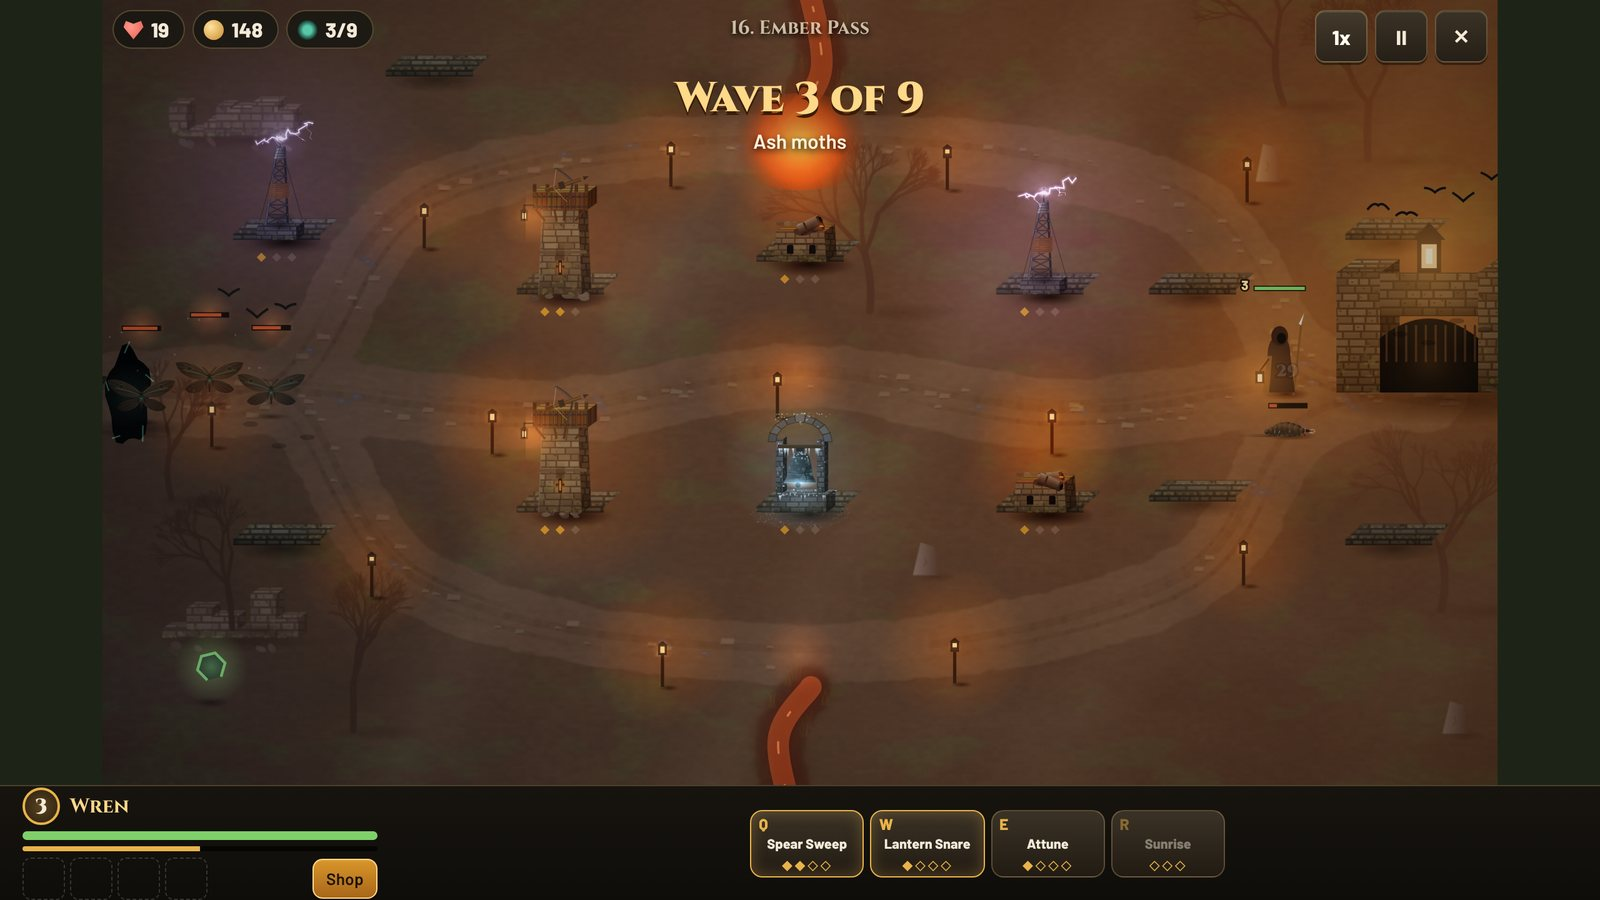
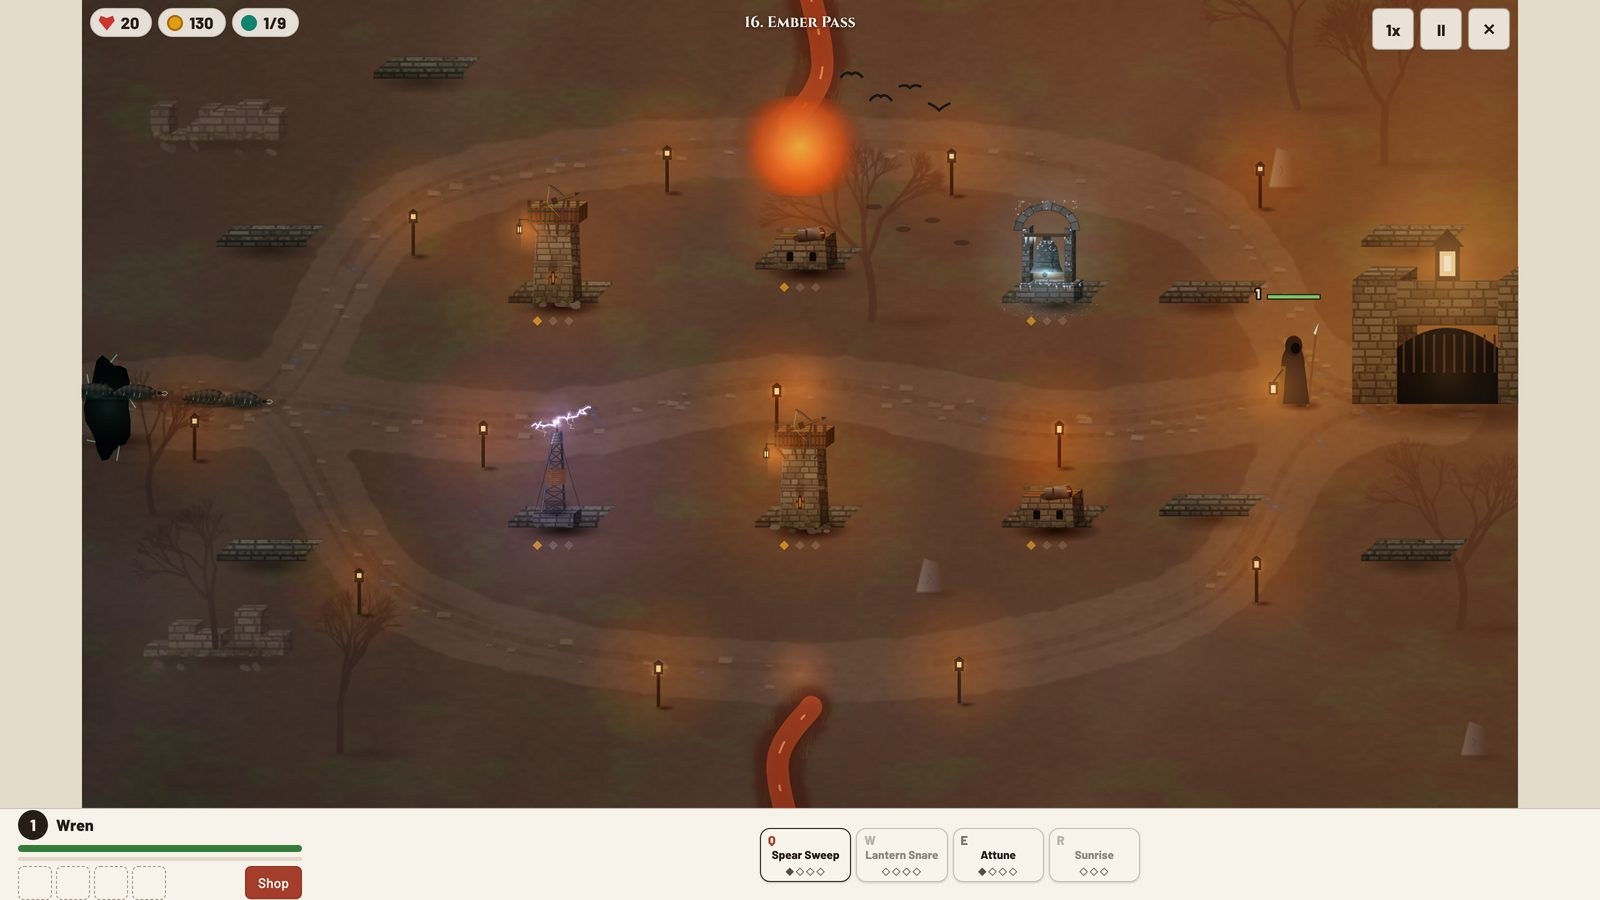
Carry the morning look through every screen
Leave-battle and erase-progress now ask in cards inside the game instead
of browser dialogs, which look foreign and do nothing in some app views.
The page and app background colour match the new paper tone, so there is
no dark flash on launch. README battle shots are retaken with the new HUD,
and docs/DESIGN.md gains the look rules for future screens.

diff --git a/src/ui/battle.ts b/src/ui/battle.ts
@@ -331,6 +331,7 @@ export class BattleScreen {
   private key(e: KeyboardEvent) {
     if (e.target instanceof HTMLInputElement) return;
     const k = e.key.toLowerCase();
+    if (this.exitVeil) { if (k === 'escape') this.closeExit(); return; }
     if (k === 'q' || k === 'w' || k === 'e' || k === 'r') { this.skillPress(k); e.preventDefault(); }
     else if (k === ' ') { this.battle.callWave(); e.preventDefault(); }
     else if (k === 'f') this.cycleSpeed();
@@ -505,8 +506,31 @@ export class BattleScreen {
   /** Leave, asking first if a fight is under way. */
   requestExit() { this.confirmExit(); }
 
+  private exitVeil: HTMLElement | null = null;
+
+  /** An in-game card rather than a browser dialog, so it matches the game and works inside the native shells. */
   private confirmExit() {
-    if (this.ended || this.battle.status === 'prep' || window.confirm('Leave this battle? Progress in it is lost.')) this.host.onExit();
+    if (this.ended || this.battle.status === 'prep') { this.host.onExit(); return; }
+    if (this.exitVeil) { this.closeExit(); return; }
+    const wasPaused = this.battle.paused;
+    if (!wasPaused) this.togglePause();
+    const stay = h('button', { class: 'btn primary', onclick: () => this.closeExit() }, 'Keep fighting');
+    const card = h('div', { class: 'result', role: 'dialog', 'aria-label': 'Leave this battle?' },
+      h('h2', { text: 'Leave this battle?' }),
+      h('p', { text: 'You lose your progress in this stage. Stars you already hold stay.' }),
+      h('div', { class: 'act-row' }, stay, h('button', { class: 'btn', onclick: () => this.host.onExit() }, 'Leave')));
+    this.exitVeil = h('div', { class: 'veil', onclick: (e: Event) => { if (e.target === this.exitVeil) this.closeExit(); } }, card);
+    this.exitVeil.dataset.resume = wasPaused ? '' : '1';
+    this.el.append(this.exitVeil);
+    stay.focus();
+  }
+
+  private closeExit() {
+    if (!this.exitVeil) return;
+    const resume = this.exitVeil.dataset.resume === '1';
+    this.exitVeil.remove();
+    this.exitVeil = null;
+    if (resume && this.battle.paused) this.togglePause();
   }
 
   private end(won: boolean, stars: number) {

diff --git a/src/ui/app.ts b/src/ui/app.ts
@@ -146,6 +146,20 @@ export class App {
     const toggle = (label: string, key: keyof typeof st, note: string) => h('label', { class: 'toggle' },
       h('input', { type: 'checkbox', checked: st[key], onchange: (e: Event) => { st[key] = (e.target as HTMLInputElement).checked; this.applySettings(); } }),
       h('span', {}, h('b', { text: label }), h('small', { text: note })));
+    // Two steps on the page itself: browser dialogs look foreign here and do nothing in some app views.
+    const erase = h('div', { class: 'erase' });
+    const askErase = () => {
+      clear(erase);
+      erase.append(h('button', { class: 'btn danger', onclick: () => {
+        clear(erase);
+        erase.append(
+          h('p', { class: 'erase-q', text: 'Erase all stars and tree picks? This cannot be undone.' }),
+          h('div', { class: 'act-row' },
+            h('button', { class: 'btn danger solid', onclick: () => { this.save = freshSave(); this.persist(); this.title(); } }, 'Erase'),
+            h('button', { class: 'btn', onclick: askErase }, 'Cancel')));
+      } }, 'Erase progress'));
+    };
+    askErase();
     this.mount(h('section', { class: 'screen settings' },
       h('header', { class: 'bar-top' }, h('button', { class: 'btn', onclick: () => this.title() }, 'Back'), h('h2', { text: 'Settings' }), h('span')),
       h('div', { class: 'panel' },
@@ -159,7 +173,7 @@ export class App {
           h('li', { text: 'Wren gains levels inside each stage. Spend points on Q, W, E and R. Landing the killing blow pays 50% more gold.' }),
           h('li', { text: 'Walk her to the gate to shop. Grab runes when they glow on the map.' }),
           h('li', { text: 'Keys: Q W E R skills, 1 to 6 build, Space next wave, F speed, P pause, B shop. Right click moves Wren.' })),
-        h('button', { class: 'btn danger', onclick: () => { if (window.confirm('Erase all stars and tree picks?')) { this.save = freshSave(); this.persist(); this.title(); } } }, 'Erase progress'))));
+        erase)));
   }
 
   private applySettings() {

diff --git a/src/styles.css b/src/styles.css
@@ -65,7 +65,10 @@ h1, h2, h3 { font-family: var(--display); font-weight: 700; margin: 0; letter-sp
 .btn.primary:hover { background: var(--accent-hi); }
 .btn.big { padding: 13px 26px; font-size: 1.06rem; min-width: 200px; }
 .btn.icon { width: 42px; height: 42px; padding: 0; font-weight: 800; }
-.btn.danger { border-color: var(--life); color: var(--life); margin-top: 18px; }
+.btn.danger { border-color: var(--life); color: var(--life); }
+.btn.danger.solid { background: var(--life); color: var(--accent-ink); }
+.erase { margin-top: 18px; display: grid; gap: 10px; justify-items: start; }
+.erase-q { margin: 0; font-weight: 600; color: var(--ink); }
 .btn.poor, .btn:disabled { opacity: 0.5; cursor: default; }
 .btn:disabled:hover { background: var(--paper); }
 
@@ -267,10 +270,10 @@ h1, h2, h3 { font-family: var(--display); font-weight: 700; margin: 0; letter-sp
 .item.owned { outline: 1px solid var(--ink); }
 
 .veil { position: absolute; inset: 0; z-index: 10; display: grid; place-items: center; background: var(--scrim); backdrop-filter: blur(3px); }
-.result { background: var(--paper); color: var(--ink); border: 1px solid var(--rule); border-radius: 18px; padding: 24px 28px; text-align: center; max-width: 460px; display: grid; gap: 10px; box-shadow: 0 20px 50px oklch(24% 0.02 60 / 0.3); }
+.result { background: var(--paper); color: var(--ink); border: 1px solid var(--rule); border-radius: 18px; padding: 24px 28px; text-align: center; width: min(440px, calc(100vw - 32px)); display: grid; gap: 10px; box-shadow: 0 20px 50px oklch(24% 0.02 60 / 0.3); }
 .result h2 { font-size: 2rem; color: var(--ink); }
 .result.lost h2 { color: var(--life); }
-.result p { margin: 0; color: var(--ink-dim); }
+.result p { margin: 0; color: var(--ink-dim); text-wrap: pretty; }
 .result .embers { color: var(--accent); font-weight: 800; }
 .result .act-row { justify-content: center; }
 

diff --git a/index.html b/index.html
@@ -3,7 +3,7 @@
 <head>
   <meta charset="utf-8" />
   <meta name="viewport" content="width=device-width, initial-scale=1, viewport-fit=cover, user-scalable=no" />
-  <meta name="theme-color" content="#1d2417" />
+  <meta name="theme-color" content="#f6f2ea" />
   <meta name="description" content="TowerRiot: a tower defence game with a hero who levels up in every fight. Plays offline." />
   <meta name="apple-mobile-web-app-capable" content="yes" />
   <meta name="mobile-web-app-capable" content="yes" />

diff --git a/capacitor.config.ts b/capacitor.config.ts
@@ -5,7 +5,7 @@ const config: CapacitorConfig = {
   appId: 'com.njarrar.towerriot',
   appName: 'TowerRiot',
   webDir: 'dist',
-  backgroundColor: '#1d2417',
+  backgroundColor: '#f6f2ea',
   ios: { contentInset: 'never' },
   android: { allowMixedContent: false },
 };

diff --git a/docs/DESIGN.md b/docs/DESIGN.md
@@ -44,3 +44,18 @@ TowerRiot is a classic tower defence game with an early Dota touch. You hold the
 ## Twenty stages
 
 Each region adds a map rule. The fifth stage of each region is a boss. See `src/game/data/stages.ts` for the maps.
+
+## Look and feel
+
+The game is set in the morning. Keep every new screen to these rules.
+
+- **Surfaces:** pale limestone paper with dark iron text. Panels over the map use the same paper, slightly see-through.
+- **One accent:** rust red, only for the thing you act on (Play, Start, buy, the next stage, a skill point to spend).
+- **Gold is for stars and coin only.** Not for titles, borders or selection.
+- **Type:** Cinzel for the logo, screen titles, stage names and battle banners. Barlow for everything else, card titles and the hero name included. No italic headings.
+- **Map light:** a light edge shade by day and a morning grade baked into the ground once. Night and lava stages keep their dark on purpose.
+- **Motion:** short and once. Nothing bobs or pulses forever. Calm motion and the system reduce-motion setting turn effects off.
+- **Phones:** no button or label wraps onto two lines. Shrink an icon before you wrap text.
+- **No browser dialogs.** Ask in a card inside the game.
+
+All colours live as tokens at the top of `src/styles.css`.

diff --git a/README.md b/README.md
@@ -86,7 +86,7 @@ Set each tower to aim at the foe furthest along, the strongest or the closest. L
 
 And four bosses, one at the end of each region: **The Mire King**, **The Tidewyrm**, **The Brass Colossus** and **The Hollow Queen**.
 
-![Lighthouse Rock at night](docs/images/battle-lighthouse.jpg)
+![Lighthouse Rock](docs/images/battle-lighthouse.jpg)
 
 ---
 
